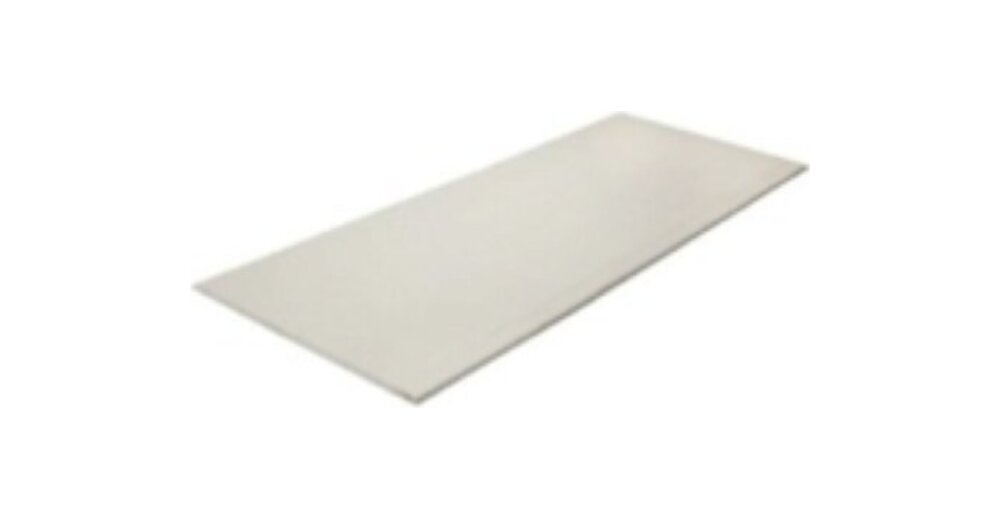
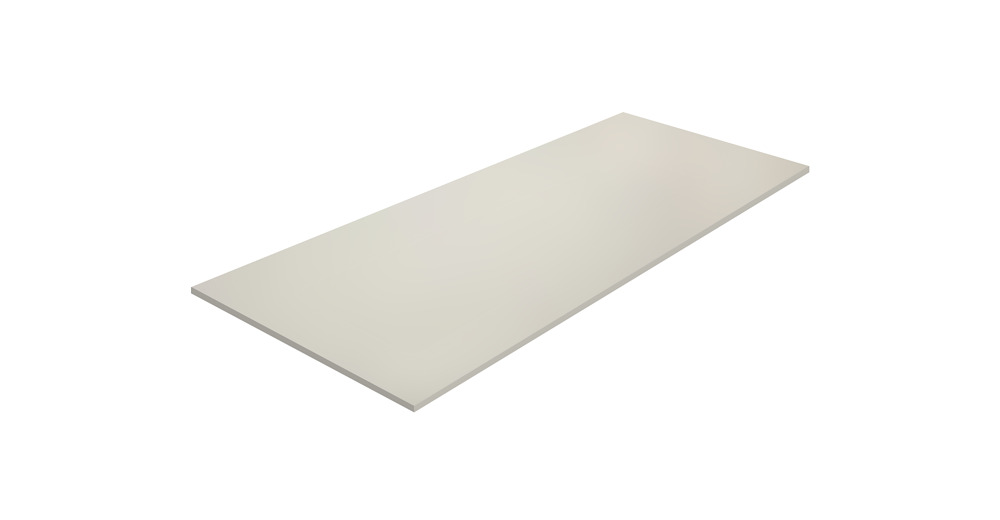
Фото гипсокартона: чёткие края, гладкая поверхность, видна кромка (ящик фото hgz-photos-2)
Четыре листа (ids 44, 45, 48, 49) перерисованы по форме и цвету прежних файлов:
убраны размытие и шум сжатия, фон чисто белый, тени нет, торцевая грань листа
возвращена. Цвета не менялись; у огнестойкого и влагоогнестойкого листа по-прежнему
один рисунок (цвет влагоогнестойкого знает только завод). Код не менялся,
поднят только PHOTOS в sw.js, чтобы телефоны забрали новые фото.

diff --git a/sw.js b/sw.js
@@ -5,7 +5,7 @@ const CACHE = "hgz-cache-v113";
 // около 1,3 МБ заново у каждого клиента. Заменили фото под тем же именем —
 // поднимите это число (при этом версию кода поднимать не нужно): старый ящик
 // удалится, фото скачаются заново. Проверяет tools/check.mjs.
-const PHOTOS = "hgz-photos-1";
+const PHOTOS = "hgz-photos-2";
 
 // Адреса с ?v= должны совпадать с index.html: иначе браузер сохранит одно,
 // а страница попросит другое. Версия поднимается при правках style.css,
